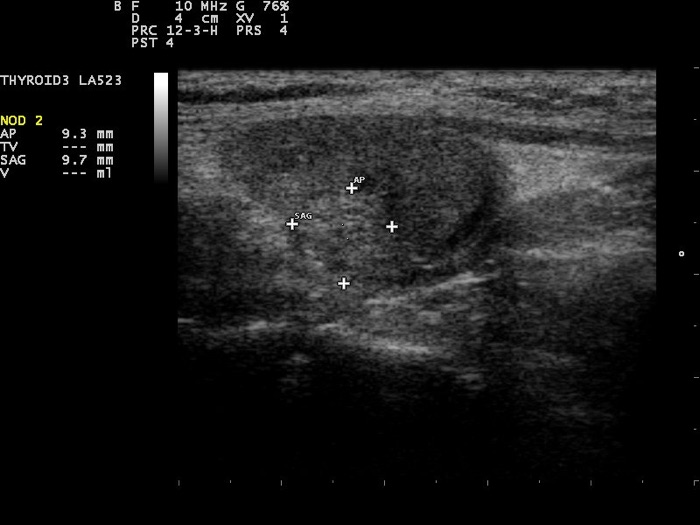
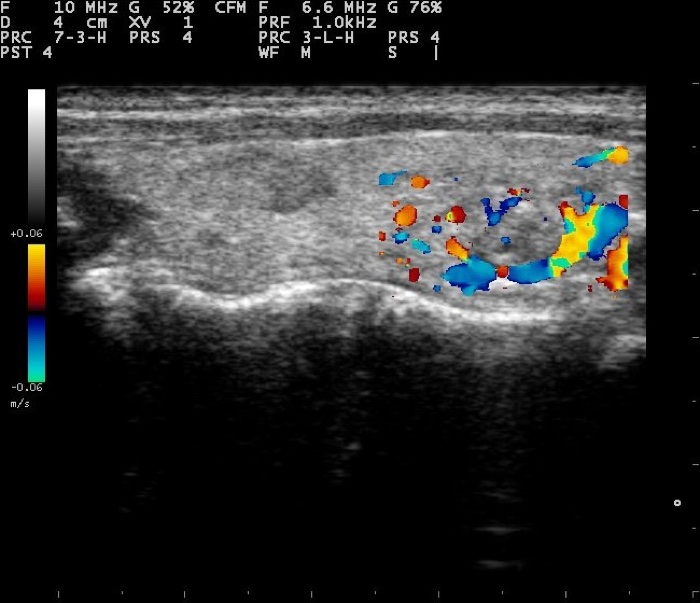
Carotidi: vera carotide comune con flusso a colori + spettro; tiroide color doppler
Carotidi: sostituita l'immagine generica con una vera ecografia della carotide
comune destra (RT CCA) con color flow e spettro arterioso (Cerevisae, CC BY-SA 4.0).
Tiroide: immagine color doppler della ghiandola, piu bella e a colori
(Nevit Dilmen, CC BY-SA 3.0). Aggiornati alt, dimensioni e cache.

diff --git a/ecocolordoppler-carotidi.html b/ecocolordoppler-carotidi.html
@@ -124,8 +124,8 @@
         </p>
         </div>
         <figure class="hero-figure">
-          <img src="images/esame-carotidi.jpg?v=3" alt="Ecocolordoppler a colori con spettro del flusso arterioso" loading="lazy" width="700" height="570">
-          <figcaption class="hero-credit">Ecocolordoppler: Hansen, Nielsen &amp; Ewertsen, <a href="https://creativecommons.org/licenses/by/4.0/" target="_blank" rel="noopener">CC BY 4.0</a></figcaption>
+          <img src="images/esame-carotidi.jpg?v=4" alt="Ecocolordoppler della carotide comune con spettro del flusso" loading="lazy" width="700" height="477">
+          <figcaption class="hero-credit">Ecocolordoppler carotide: Cerevisae, <a href="https://creativecommons.org/licenses/by-sa/4.0/" target="_blank" rel="noopener">CC BY-SA 4.0</a></figcaption>
         </figure>
       </div>
     </section>

diff --git a/ecografia-tiroide.html b/ecografia-tiroide.html
@@ -131,7 +131,7 @@
         </p>
         </div>
         <figure class="hero-figure">
-          <img src="images/esame-tiroide.jpg?v=2" alt="Immagine ecografica della tiroide" loading="lazy" width="700" height="525">
+          <img src="images/esame-tiroide.jpg?v=3" alt="Ecografia color doppler della tiroide" loading="lazy" width="700" height="603">
           <figcaption class="hero-credit">Ecografia: Nevit Dilmen, <a href="https://creativecommons.org/licenses/by-sa/3.0/" target="_blank" rel="noopener">CC BY-SA 3.0</a></figcaption>
         </figure>
       </div>